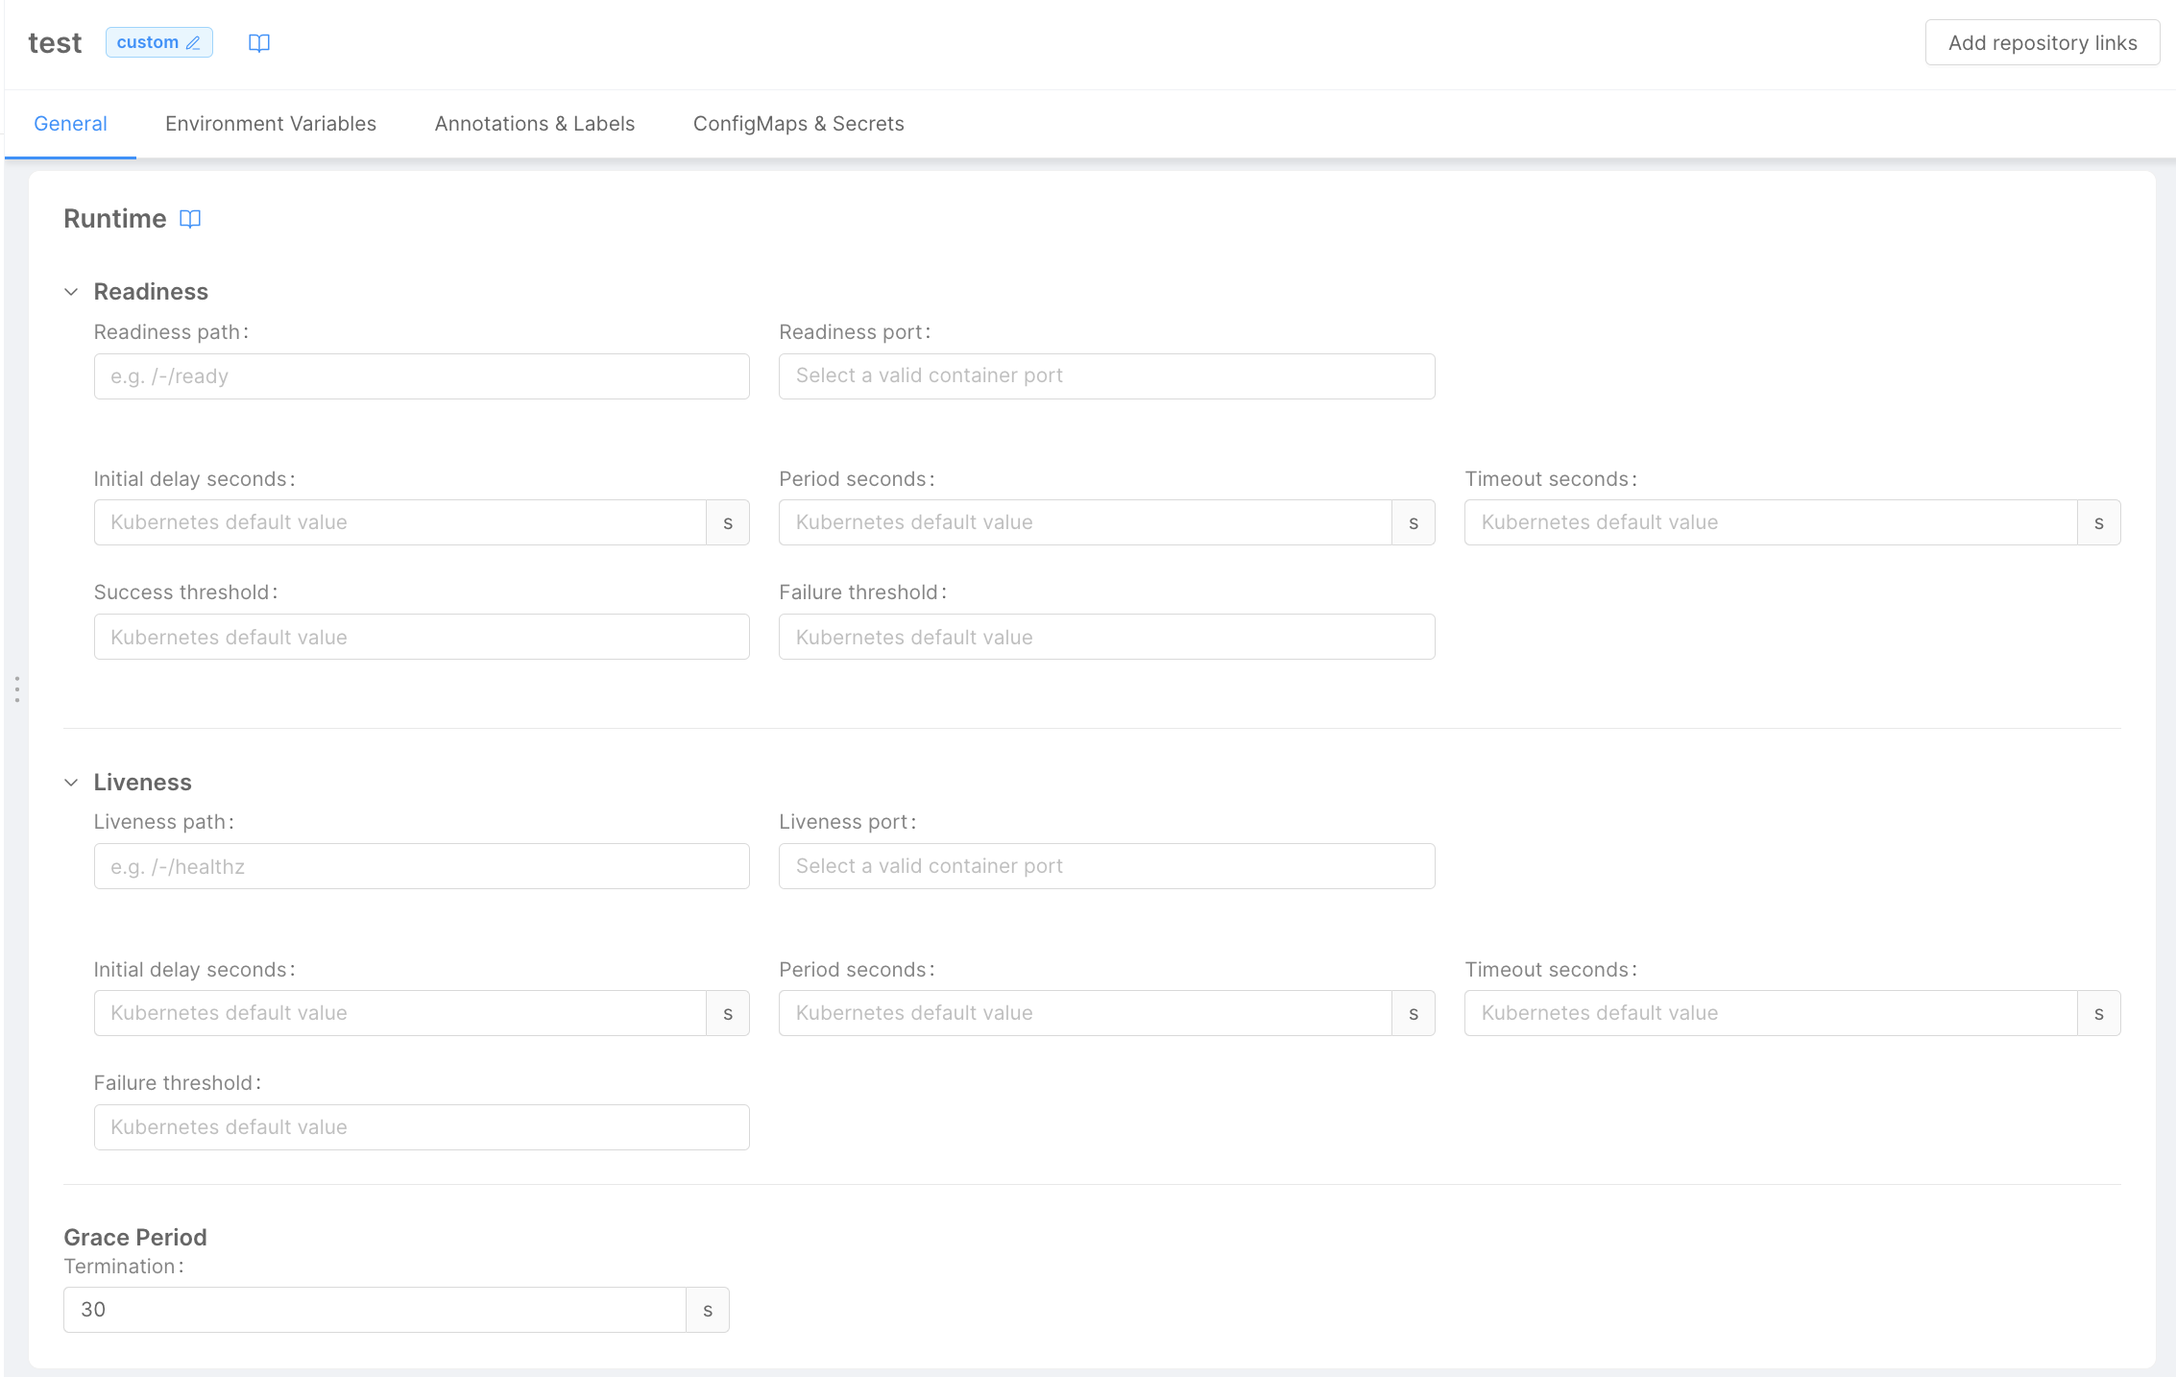
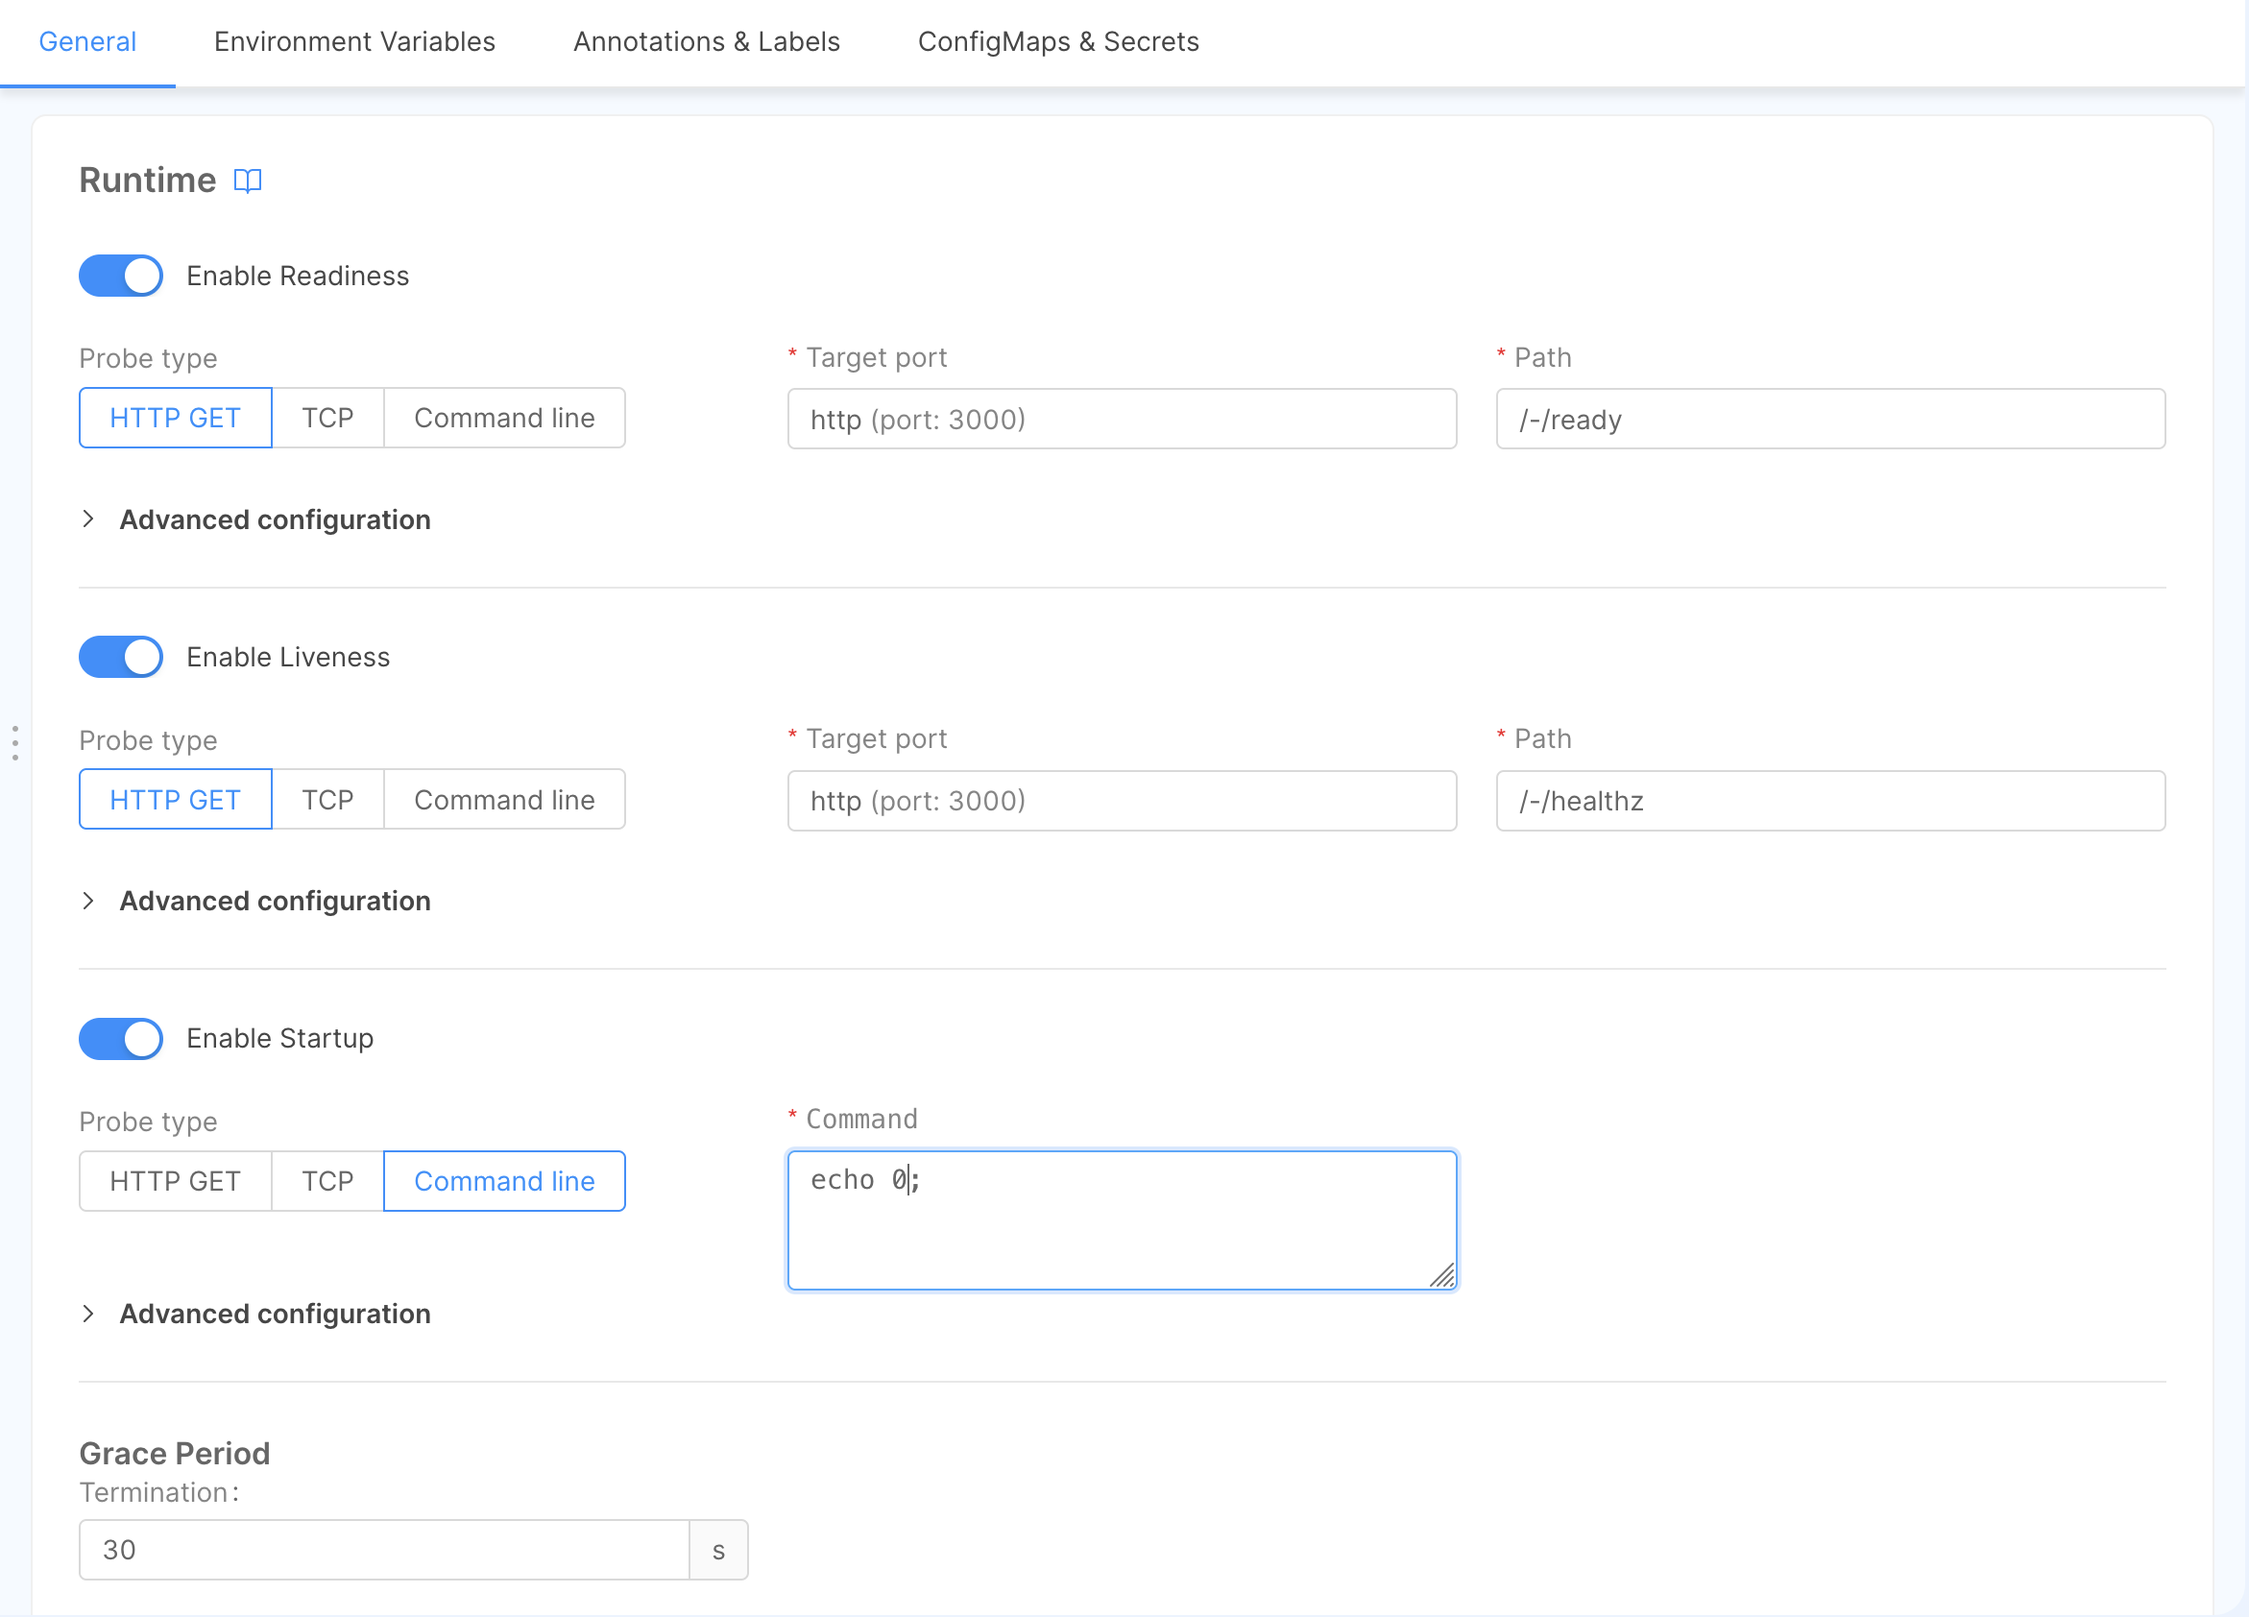
feat: new probes ui with startup probe support (#936)
* feat: new probes ui with startup probe support

* updated screenshot

* fix: external generator doc

diff --git a/docs/development_suite/api-console/api-design/microservice-runtime-resources.md b/docs/development_suite/api-console/api-design/microservice-runtime-resources.md
@@ -8,12 +8,13 @@ The _Runtime Card_ contains settings that will be used at Runtime by the underly
 
 ![runtime-section](img/Runtime-card.png)
 
-## Liveness & Readiness Probes
+## Probes
 
-In a micro-service, two different kind of probes can be exposed:
+In a micro-service, three different kind of probes can be exposed:
 
 * **Readiness**: tells the cluster orchestrator when a micro-service can accept traffic; 
 * **Liveness**: tells the cluster orchestrator if a micro-service is up-and-running.
+* **Startup**: tells the cluster orchestrator if a micro-service has been completely booted.
 
 To learn more about probes, please refer to the [Kubernetes official API documentation](https://kubernetes.io/docs/tasks/configure-pod-container/configure-liveness-readiness-startup-probes/#configure-probes).
 
